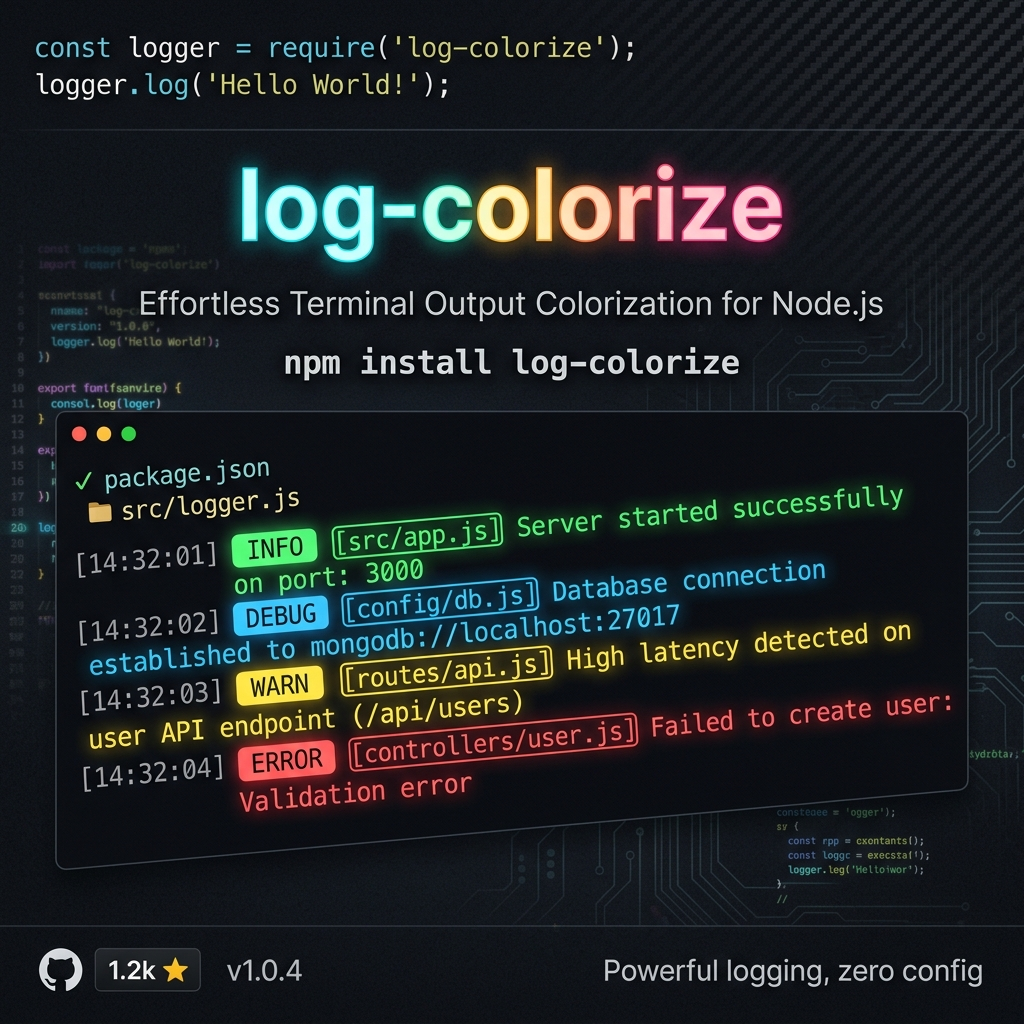
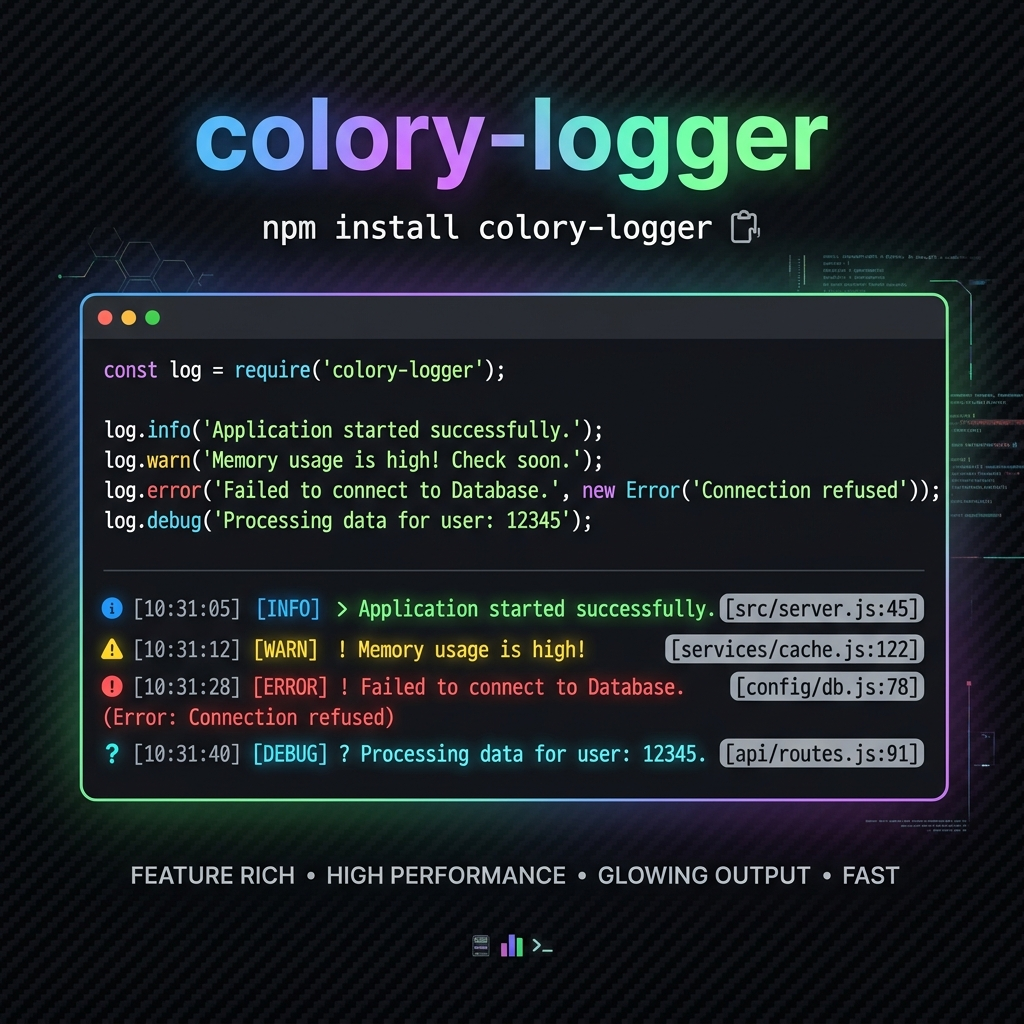
chore: rename package to colory-logger and publish v1.0.0 to npm

diff --git a/react-demo/src/components/UsageExamples.tsx b/react-demo/src/components/UsageExamples.tsx
@@ -3,46 +3,43 @@ import styles from "./UsageExamples.module.css";
 const SNIPPETS = [
   {
     title: "Basic usage — log(message, type)",
-    code: `import { log } from "log-colorize";
+    code: `import { log } from "colory-logger";
 
 log("User created", "success");        // ✔ green
 log("DB connection lost", "error");    // ✖ red
-log("Rate limit at 90%", "warning");   // ⚠ yellow
-log("Server started :3000", "info");   // ℹ blue
-log("Default is info");                // ℹ (type optional)`,
+log("Rate limit at 80%", "warning");   // ⚠ yellow
+log("Server started on 3000", "info");  // ℹ blue
+log("Processing payment...");          // ℹ defaults to info`,
   },
   {
-    title: "Error object support",
-    code: `import { log } from "log-colorize";
+    title: "Passing Error Objects",
+    code: `import { log } from "colory-logger";
 
-// Pass an Error instance directly — message + stack prints
 try {
-  await db.connect();
+  throw new Error("ECONNREFUSED 127.0.0.1:5432");
 } catch (err) {
-  log(err, "error");
-  // ✖ ERROR  src/db.ts:8:5
-  //   Error: ECONNREFUSED 127.0.0.1:5432
-  //     at connect (src/db.ts:8:5)
-  //     at ...
+  log(err, "error");   // ✖ prints error.message + full stack trace!
 }`,
   },
   {
-    title: "configure() — global options",
-    code: `import { configure } from "log-colorize";
+    title: "Global Configuration",
+    code: `import { configure } from "colory-logger";
 
-// Hide paths in production
+// Hide file path prefix everywhere (useful in production)
+configure({ showPath: false });
+
+// Mute lower-severity logs globally
+configure({ level: "warning" }); // only warning + error will print!`,
+  },
+  {
+    title: "Next.js & React Integration",
+    code: `// Works in both Next.js Server Components (ANSI) & Client Components (%c CSS)
+import { log, configure } from "colory-logger";
+
 if (process.env.NODE_ENV === "production") {
   configure({ showPath: false });
 }
 
-// Only print warnings + errors (mute info + success)
-configure({ level: "warning" });
-
-// Plain text — no colors (for CI pipelines)
-configure({ colorsEnabled: false });`,
-  },
-  {
-    title: "Level filter — mute noisy logs",
     code: `import { log, configure } from "log-colorize";
 
 // In staging: only see warnings and errors

diff --git a/react-demo/vite.config.ts b/react-demo/vite.config.ts
@@ -8,10 +8,8 @@ export default defineConfig({
   resolve: {
     alias: {
       // Point directly at the compiled ESM bundle in the parent package.
-      // This lets Vite resolve "log-colorize" without needing it published to npm.
-      "log-colorize": path.resolve(import.meta.dirname, "../dist/esm/index.mjs"),
+      // This lets Vite resolve "colory-logger" without needing it published to npm.
+      "colory-logger": path.resolve(import.meta.dirname, "../dist/esm/index.mjs"),
     },
   },
 });
-
-

diff --git a/react-demo/src/components/Header.tsx b/react-demo/src/components/Header.tsx
@@ -24,7 +24,7 @@ export default function Header() {
 
       <div className={styles.install}>
         <span className={styles.installLabel}>Install:</span>
-        <code className={styles.installCode}>npm install log-colorize</code>
+        <code className={styles.installCode}>npm install colory-logger</code>
       </div>
     </header>
   );

diff --git a/react-demo/src/main.tsx b/react-demo/src/main.tsx
@@ -2,7 +2,7 @@ import React from "react";
 import ReactDOM from "react-dom/client";
 import App from "./App";
 import "./index.css";
-import { configure } from "log-colorize";
+import { configure } from "colory-logger";
 
 // Hide file paths in production — show them in development
 if (import.meta.env.PROD) {

diff --git a/src/index.ts b/src/index.ts
@@ -169,8 +169,8 @@ const _bundlePath = getBundlePath();
 const _skipPatterns = [
   /getBundlePath/,
   /getCallerInfo/,
-  /\blog\b.*log-colorize/,
-  /log-colorize[/\\]src[/\\]index/,
+  /\blog\b.*(colory-logger|log-colorize)/,
+  /(colory-logger|log-colorize)[/\\]src[/\\]index/,
 ];
 
 /**

diff --git a/react-demo/src/components/LogButtons.tsx b/react-demo/src/components/LogButtons.tsx
@@ -1,4 +1,4 @@
-import { log, configure } from "log-colorize";
+import { log, configure } from "colory-logger";
 import type { LogEntry, LogType } from "../types";
 import styles from "./LogButtons.module.css";
 
